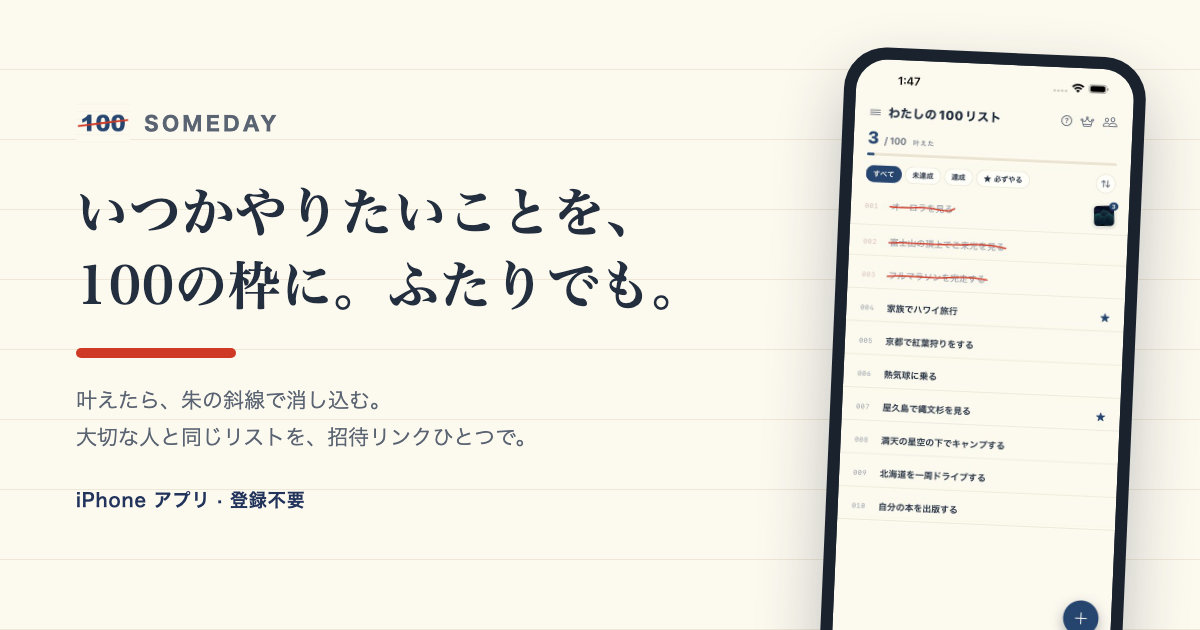
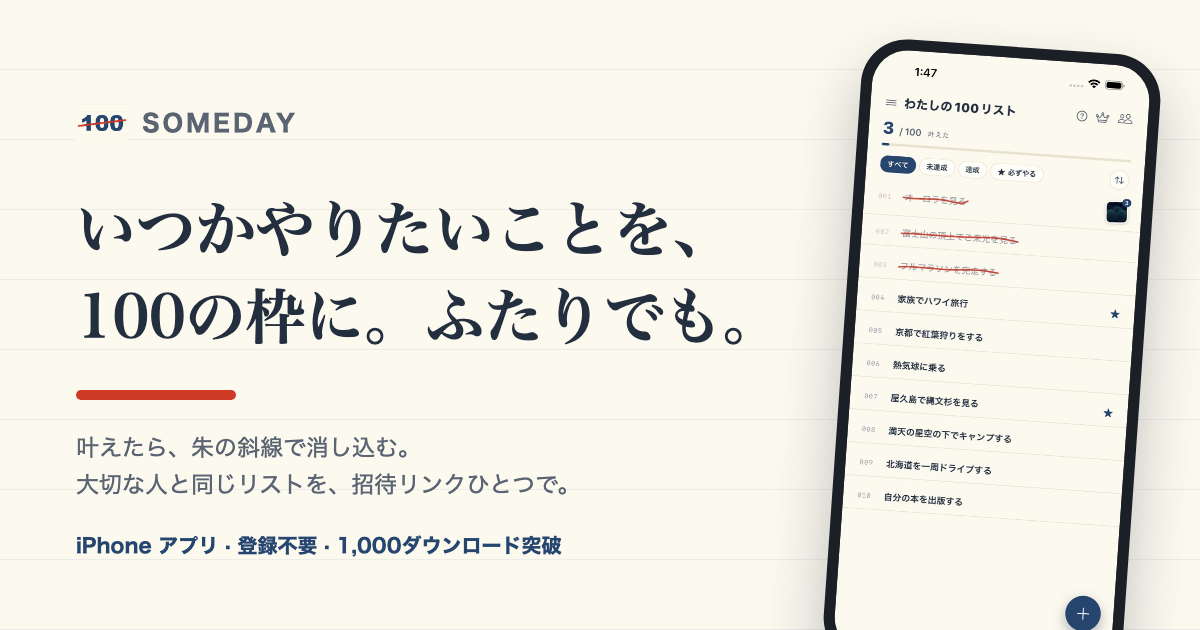
LP: 日本語のリンクカード画像に 1,000 ダウンロード突破を追加(画像 URL に v=2 を付けてキャッシュを更新)

diff --git a/index.html b/index.html
@@ -9,7 +9,7 @@
 <meta property="og:description" content="1,000ダウンロード突破。叶えたら朱線で消す、100の枠のバケットリスト。ふたりで共有して、思い出に。">
 <meta property="og:type" content="website">
 <meta property="og:url" content="https://fumy98.github.io/someday/">
-<meta property="og:image" content="https://fumy98.github.io/someday/ogp.png">
+<meta property="og:image" content="https://fumy98.github.io/someday/ogp.png?v=2">
 <meta property="og:image:width" content="1200">
 <meta property="og:image:height" content="630">
 <meta property="og:image:type" content="image/png">
@@ -17,7 +17,7 @@
 <meta name="twitter:card" content="summary_large_image">
 <meta name="twitter:title" content="Someday − やりたいことを、100の枠に。">
 <meta name="twitter:description" content="1,000ダウンロード突破。叶えたら朱の斜線で消し込む。大切な人と同じリストを、招待リンクひとつで。">
-<meta name="twitter:image" content="https://fumy98.github.io/someday/ogp.png">
+<meta name="twitter:image" content="https://fumy98.github.io/someday/ogp.png?v=2">
 <link rel="icon" type="image/png" sizes="32x32" href="favicon-32.png">
 <link rel="apple-touch-icon" href="icon-180.png">
 <meta name="theme-color" content="#FCF9EF">
